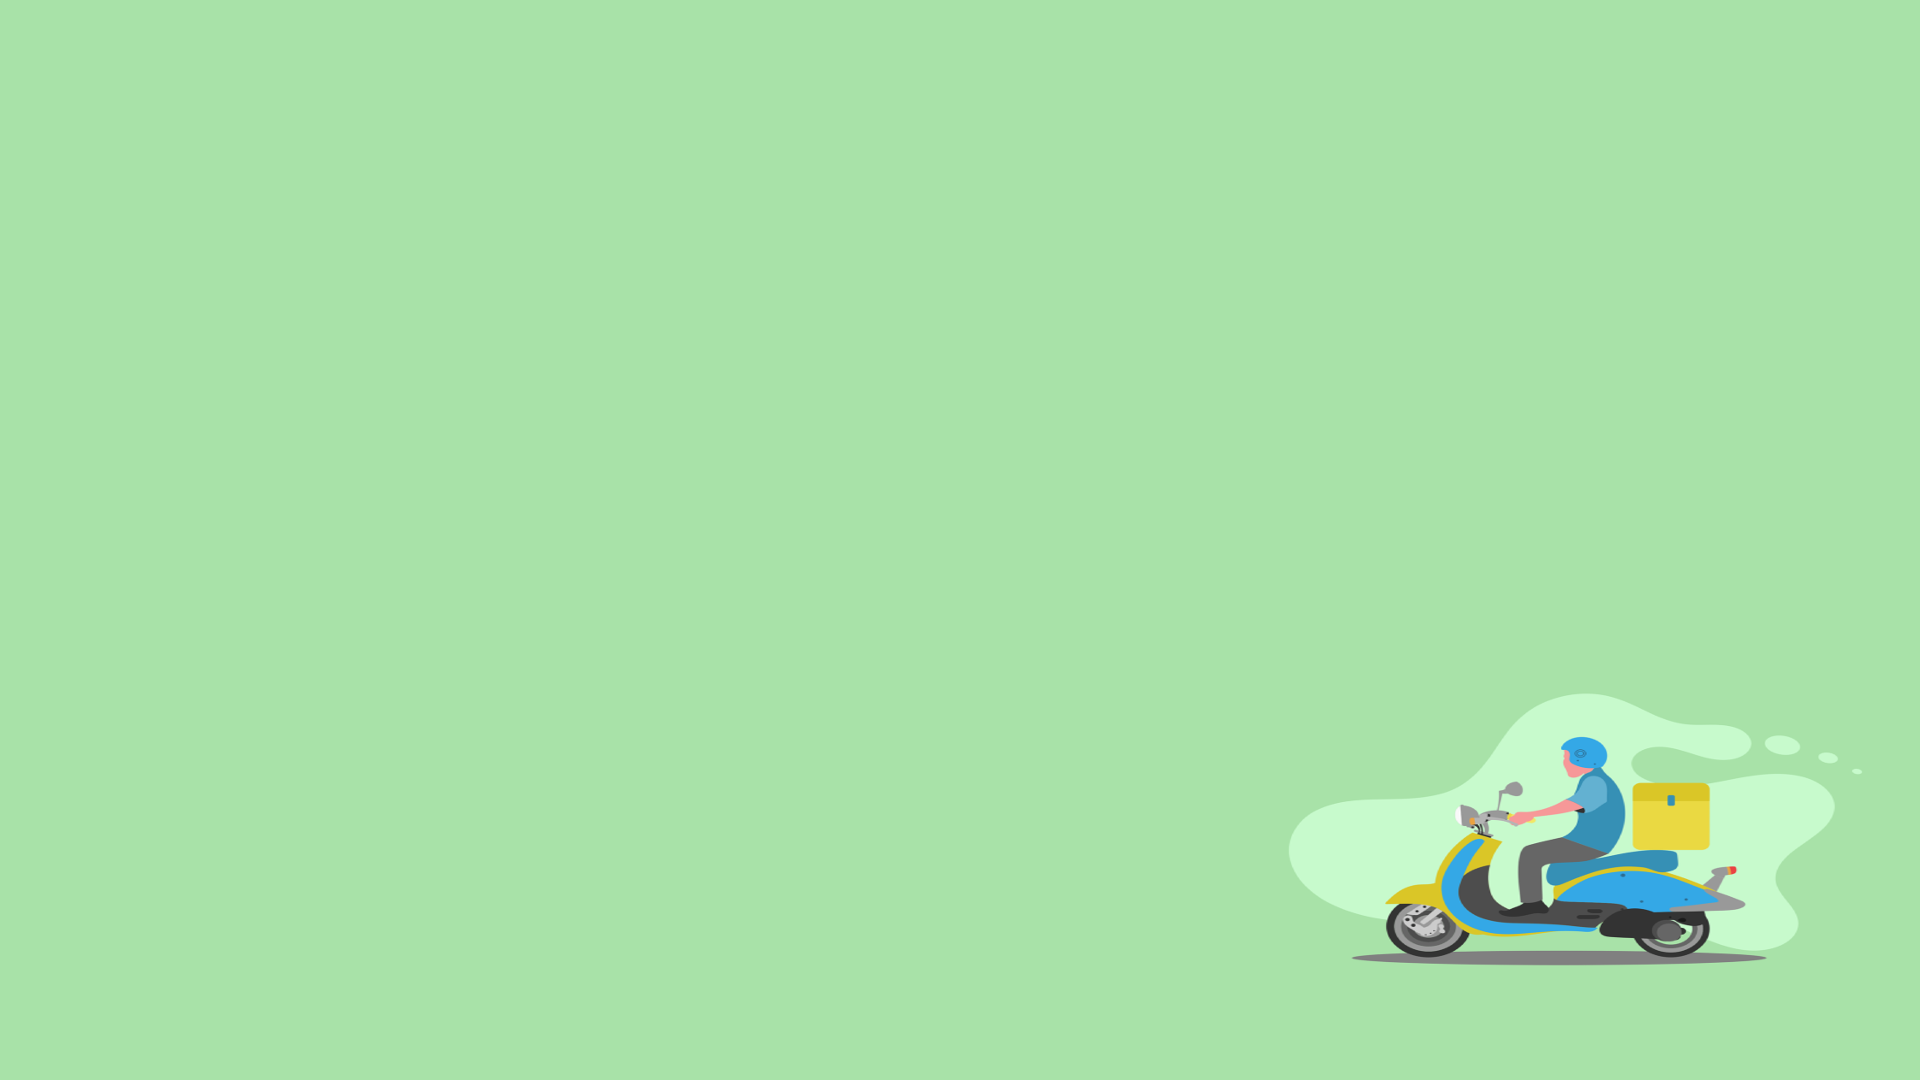
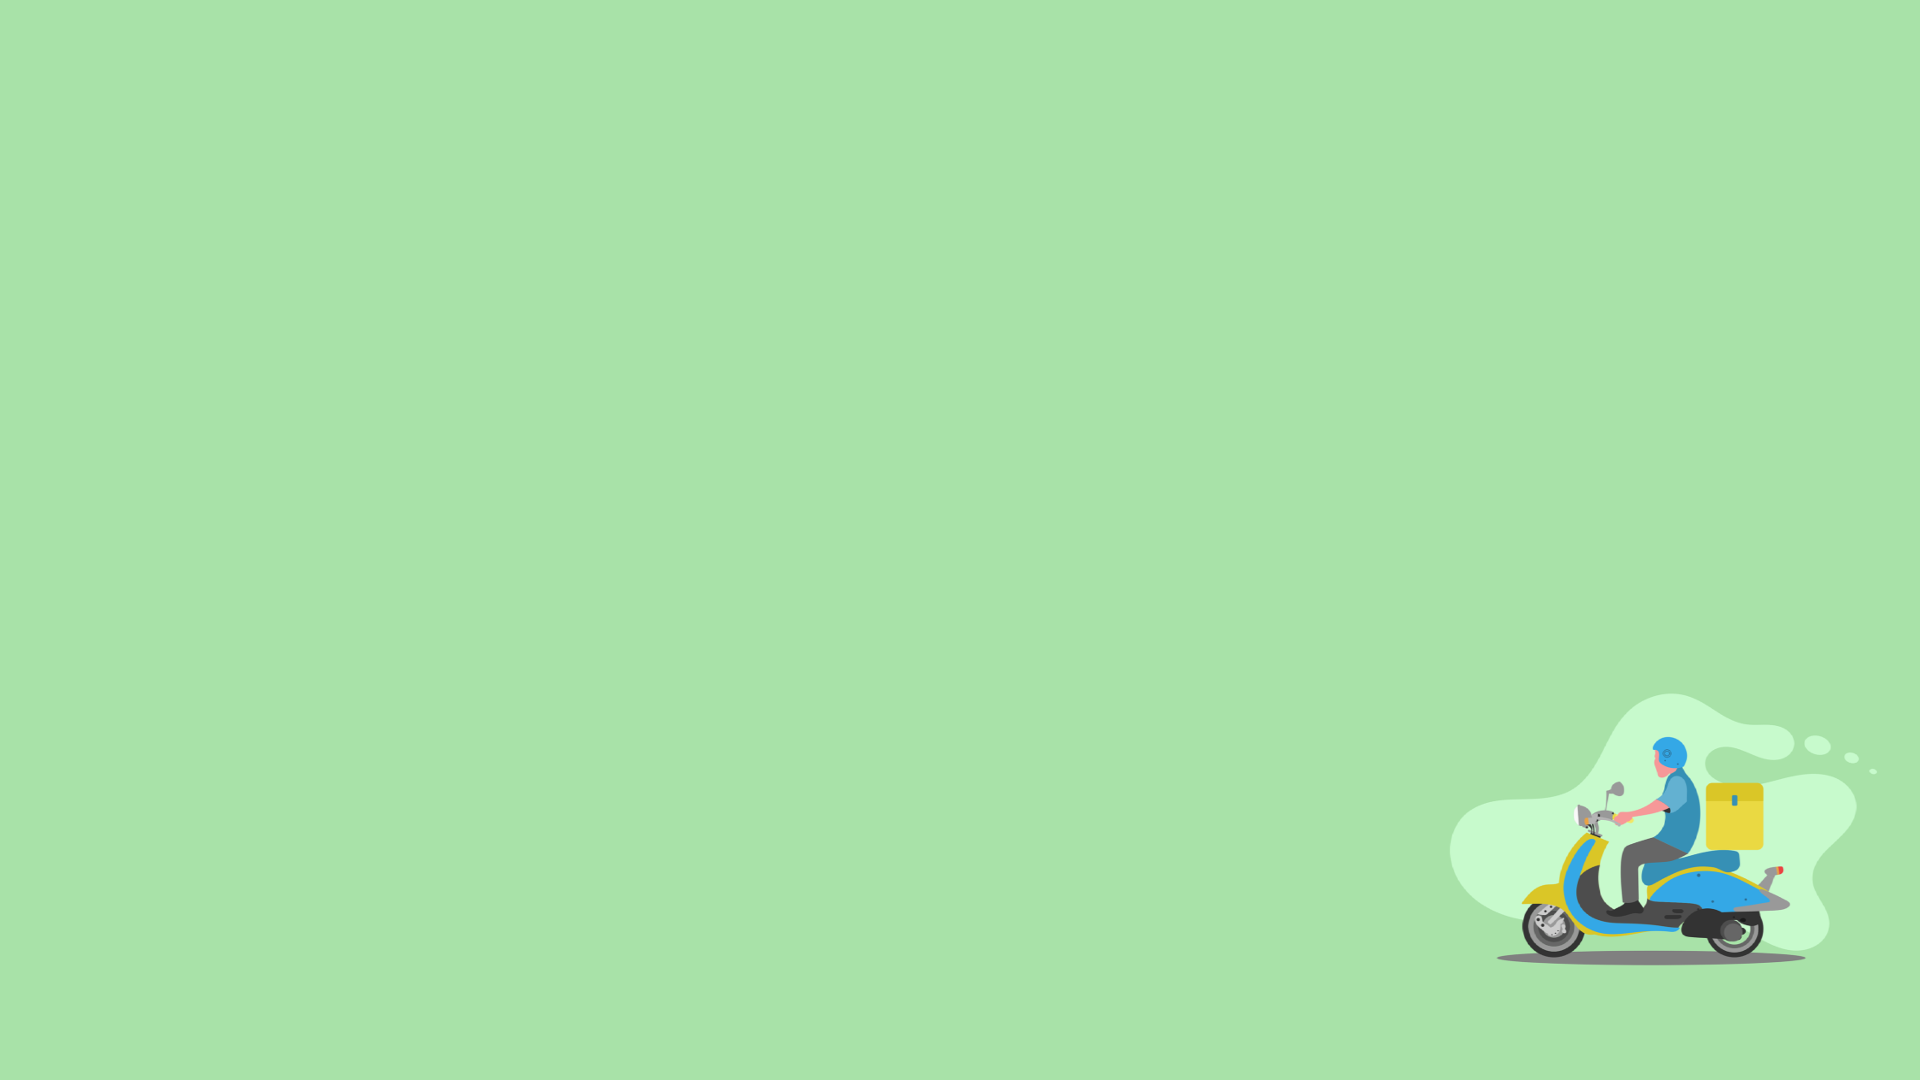
ajuste plano de fundo

Changed region(s): [[0.6562, 0.6417, 0.9688, 0.9167]]

diff --git a/style.css b/style.css
@@ -1,16 +1,11 @@
-* {
-    font-size: small;
-}
-
 body {
-    background-image: url(img/delivery.png);
-    background-repeat: no-repeat;
-    background-size: auto;
+    background: url(img/delivery.png) fixed;
+    background-size: 100% 100%;
 }
 
 body #logo {
     display: block;
-    width: 20%;
+    width: 15%;
     margin: auto;
 }
 
